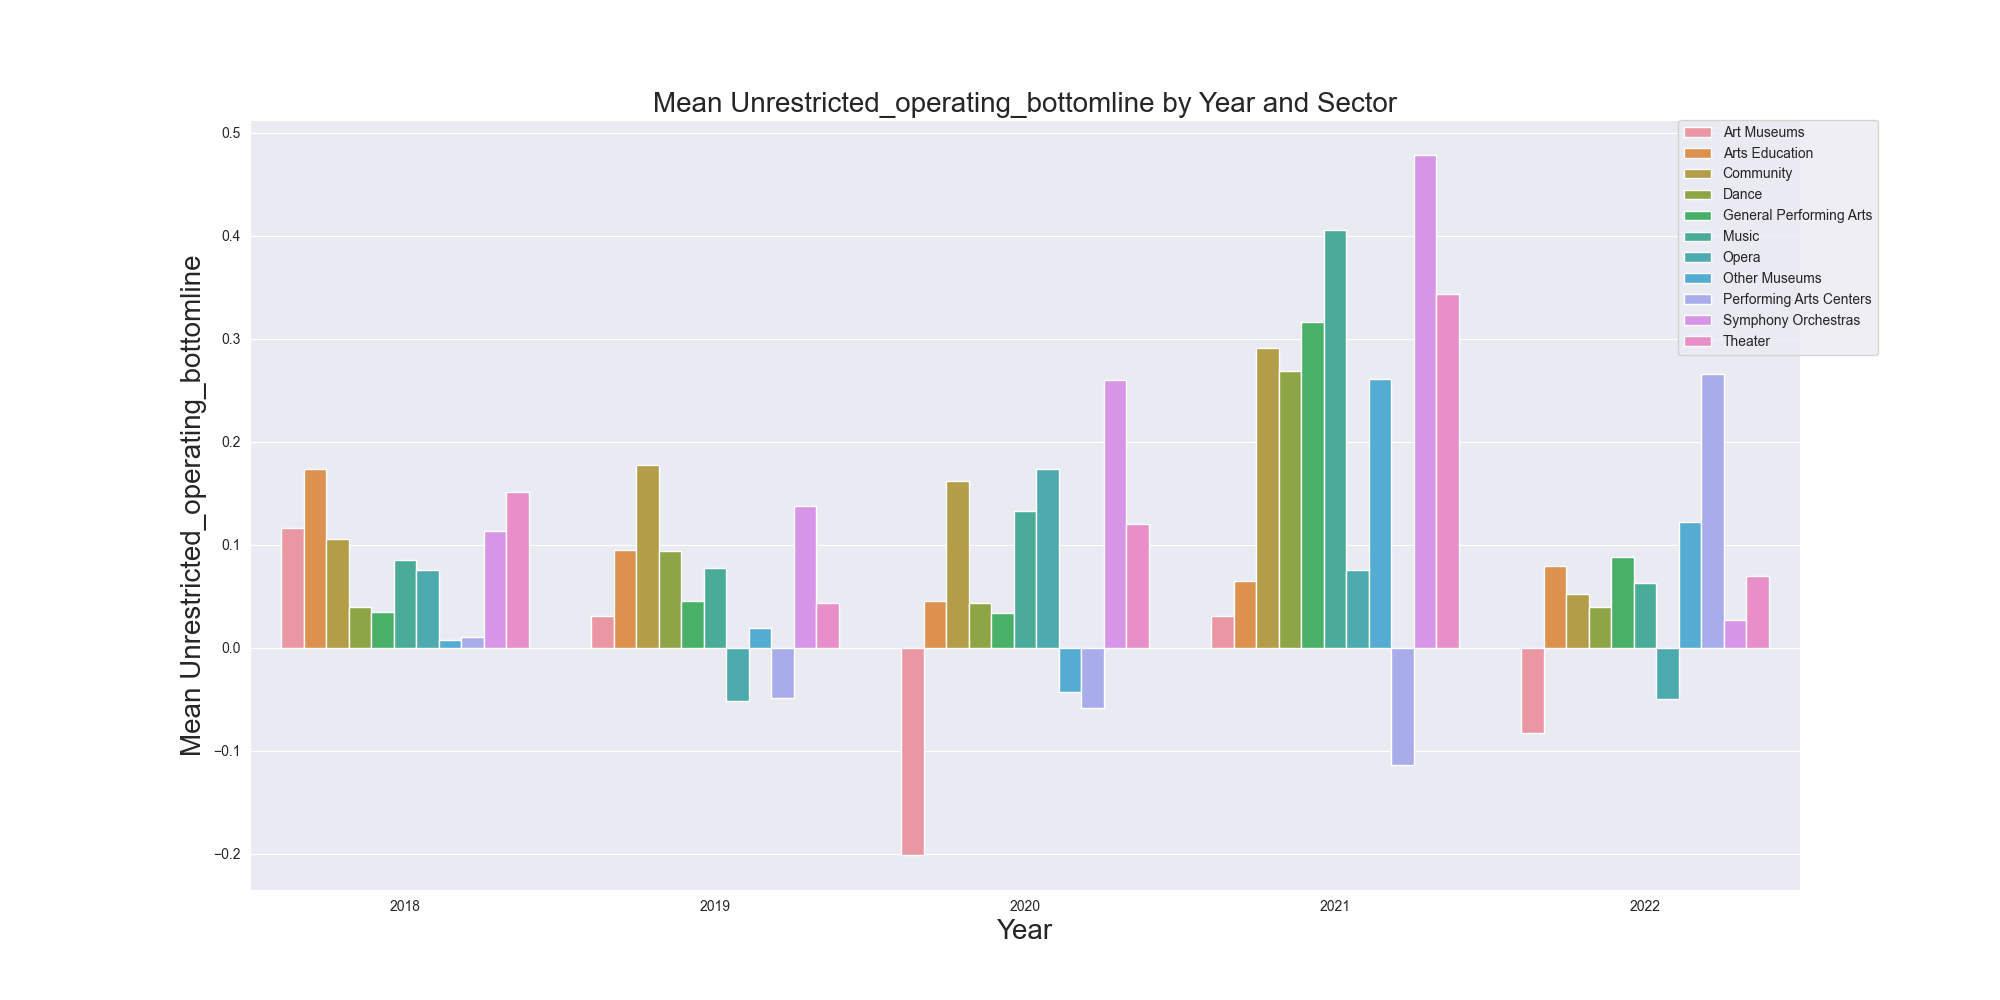
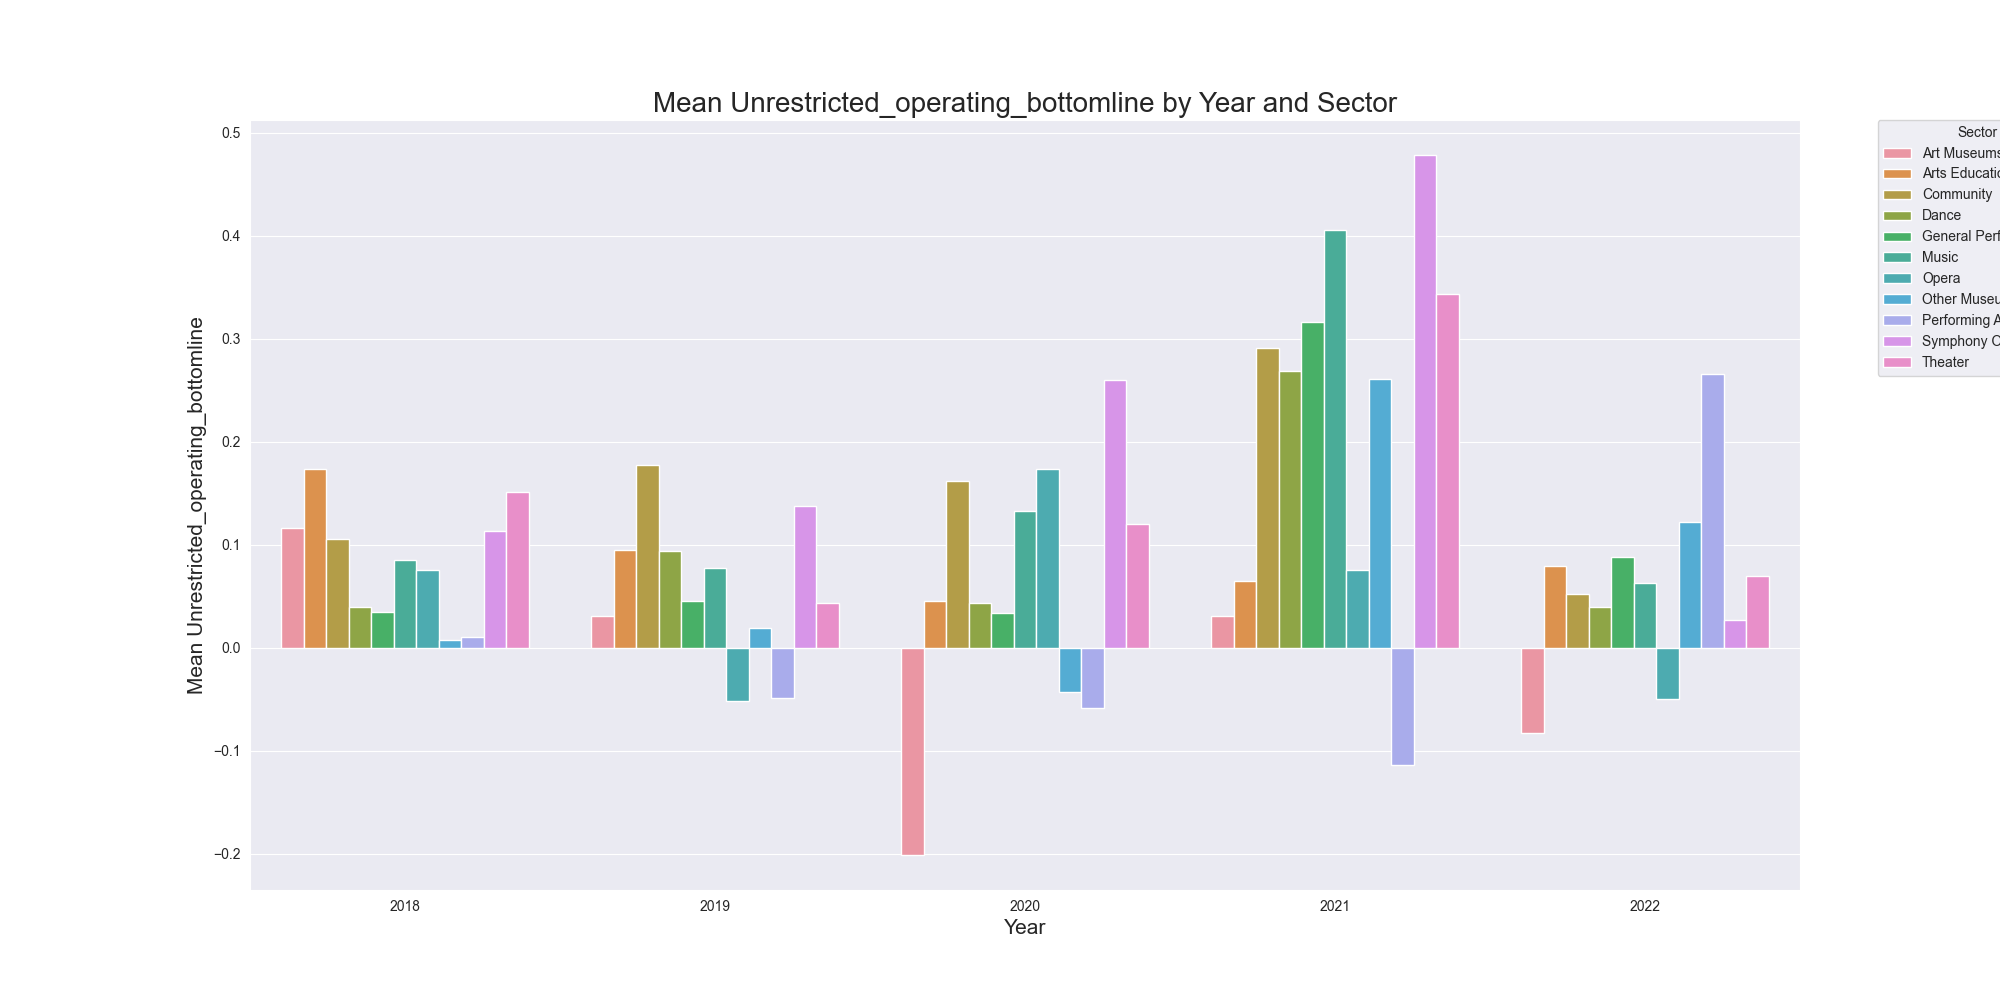
Tweaks to the legend and chart title

Changed region(s): [[0.837, 0.124, 1.0, 0.372], [0.093, 0.279, 0.124, 0.744], [0.496, 0.899, 0.527, 0.961]]

diff --git a/app.py b/app.py
@@ -33,14 +33,20 @@ ui.tags.head(
   )
 )
 
+style=""
+
 app_ui = ui.page_fluid(
     ui.panel_title("Bottom Line Dashboard"),
     
     ui.panel_main(
         ui.navset_tab(
-        ui.nav("Key Findings", ui.output_plot("plot")),
+        ui.nav("Key Findings", 
+               ui.row(
+                   ui.column(6, ui.div(ui.h2("Theatre and Community Organizations Averaged a Positive Bottom Line in 2019"),ui.span("Community and Theater organizations operate on surpluses when analyzed along with all three measurements, with the Community sector coming out on top after accounting for depreciation. Performing Arts Centers (PACs) had the highest unrestricted surplus, and Other Museums had the highest operating surplus before depreciation.")), style=style),
+                   ui.column(6, ui.output_plot("kf_1"), style=style),
+               )),
         ui.nav("Size", ui.output_plot("size")),
-        ui.nav("Sector", "Sector Graph")
+        ui.nav("Sector", ui.output_plot("plot"))
      )
     ),
     
@@ -48,6 +54,10 @@ app_ui = ui.page_fluid(
 )
 
 def server(input, output, session):
+    @output
+    @render.plot(alt="Community Mean Operationing")
+    def kf_1():
+        kf = create_OneBarplot(df=df,var='Unrestricted_operating_bottomline', yr=2020,sz='Small',st='Community', agg='mean', style='darkgrid',width=0.1,color='orange',alpha=1, xlabel_size=15,title_size=10,xticks_size=20,chartTitle="Community Unrestricted Operating Bottom Line")
     @output
     @render.plot(alt="simple line graph")
     def plot():
@@ -61,24 +71,9 @@ def server(input, output, session):
 
         # Create bar plot
         # g = sns.barplot(x='year', y='Unrestricted_operating_bottomline', hue='Size', data=grouped_data, ax=ax)
-        g = create_barplot(df,var,hue='Sector',style='darkgrid',savepath=None)
+        g = create_barplot(df,var,hue='Size',style='darkgrid',savepath=None)
         
-        
-        # g = sns.barplot(x='year', y='Unrestricted_operating_bottomline', hue='Size', data=df)
 
-        # set legend fontsize larger
-        # sns.set(font_scale=4)
-
-        # Set x-axis label
-        #plt.xlabel('Year',size=20)
-
-        # Set y-axis label
-       # plt.ylabel('Mean Unrestricted_operating_bottomline',size=20)
-
-        # Set title
-        #plt.title('Mean Unrestricted_operating_bottomline by Year and Size',size=20)
-
-        #plt.savefig('Mean_Unrestricted_operating_bottomline_by_Year_and_Size.png');
 
     
    

diff --git a/utils.py b/utils.py
@@ -488,12 +488,12 @@ def create_barplot(df,var,hue='Sector',style='darkgrid',savepath=None):
 
     # set legend fontsize larger
     # sns.set(font_scale=1.5)
-    plt.legend(bbox_to_anchor=(1.05, 1), loc='upper right', borderaxespad=0)
+    plt.legend(bbox_to_anchor=(1.05, 1), loc='upper left', borderaxespad=0.,title=hue)
     # Set x-axis label
-    plt.xlabel('Year',size=20)
+    plt.xlabel('Year',size=15)
 
     # Set y-axis label
-    plt.ylabel(f'Mean {var}',size=20)
+    plt.ylabel(f'Mean {var}',size=15)
 
     # Set title
     plt.title(f'Mean {var} by Year and {hue}',size=20)
@@ -502,7 +502,7 @@ def create_barplot(df,var,hue='Sector',style='darkgrid',savepath=None):
     return
 
 
-def create_OneBarplot(df,var,yr,sz,st,agg='mean',style='darkgrid',width=0.1,color='orange',alpha=1,xlabel_size=30,title_size=30,xticks_size=20,savepath=None):
+def create_OneBarplot(df,var,yr,sz,st,agg='mean',style='darkgrid',width=0.1,color='orange',alpha=1,xlabel_size=30,title_size=30,xticks_size=20,chartTitle="Graph Title",savepath=None):
 
     # Group data by year and type and calculate mean/median values
     if agg=='median':
@@ -533,8 +533,10 @@ def create_OneBarplot(df,var,yr,sz,st,agg='mean',style='darkgrid',width=0.1,colo
     plt.ylabel('')
 
     # Set title
-    plt.title(f'{var}-{agg} {yr} ({sz} - {st})',size=title_size)
+    #plt.title(f'{var}-{agg} {yr} ({sz} - {st})',size=title_size)
     
+    plt.title(chartTitle)
+
     if savepath is None:
         plt.savefig(f'{var}-{agg}_{yr}_{sz}_{st}.png')
     else:
